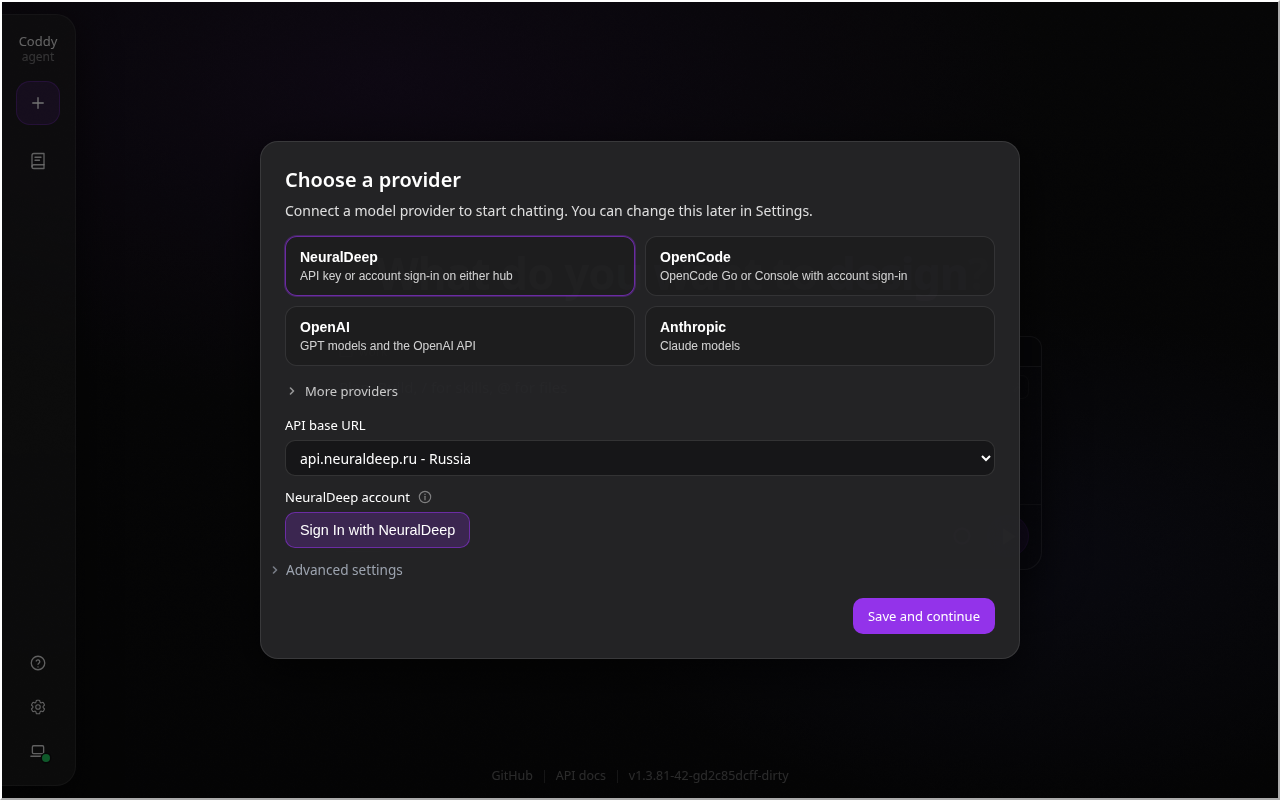
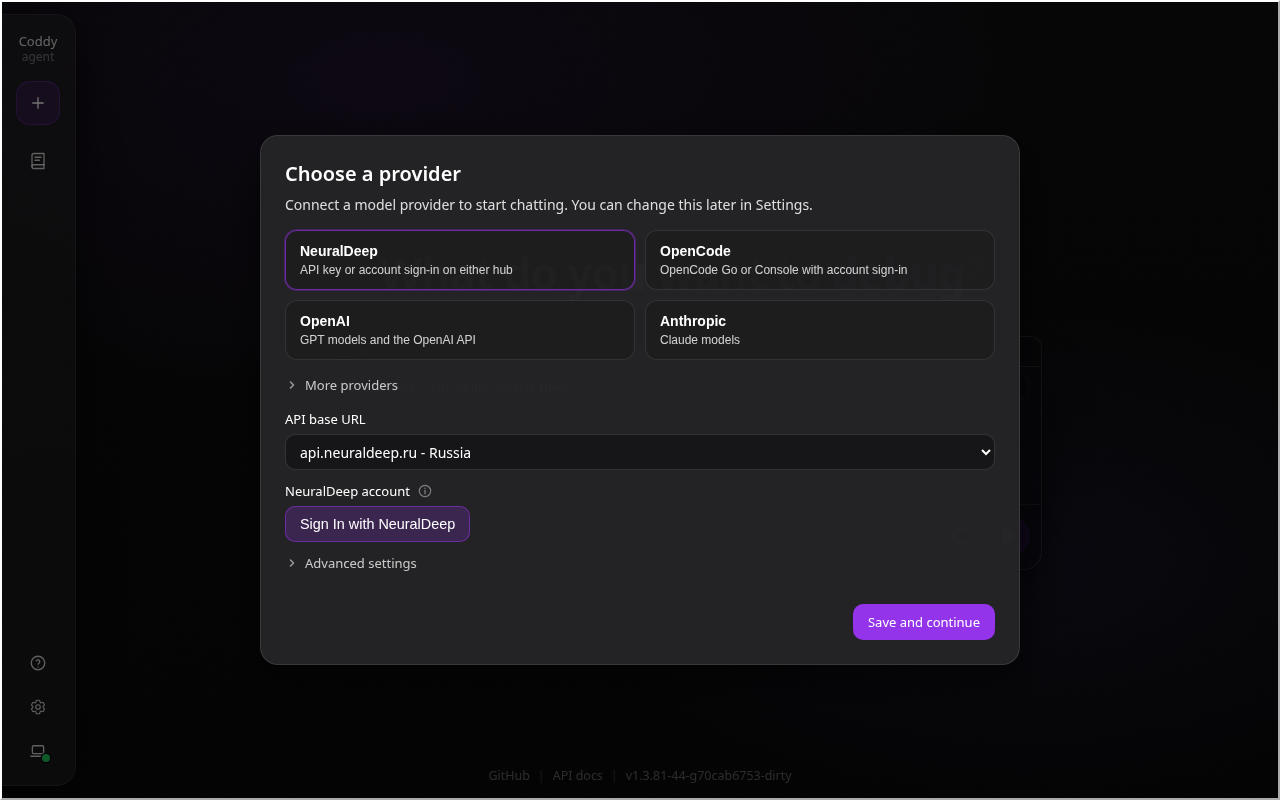
fix(onboarding): both folds of the picker are the same control
Advanced settings was a CollapsibleFieldset and More providers a plain row,
so the two disclosures of one dialog looked unrelated: one framed, legended
and indenting its contents a visible step past the fields above it, the other
a chevron and two words on the form's left edge.

They are now one rule. `.provider-picker-disclosure` draws both, so neither
can drift from the other, and what the advanced one opens is the form's own
column - same gap, same edge, no frame. Nothing of the settings screen's
fieldset is left in the partial, which the CSS contract asserts by name.

A fold now unmounts what it hides rather than hiding it. The values live in
the dialog's state, so folding loses nothing, and the test types a proxy,
folds, unfolds and reads it back.

Measured in a real browser rather than looked at: a check opens the advanced
fold and compares the two rows by computed style - font size and weight,
colour, opacity, border, background, padding, height, display, alignment,
gap - plus the chevron's width and the left edge of every card, row and
field against the panel. Twelve combinations, 320 to 1920 px in both
languages, no difference in any property and one left edge throughout.

diff --git a/external/ui/src/ui/onboarding/ProviderPickerDialog.tsx b/external/ui/src/ui/onboarding/ProviderPickerDialog.tsx
@@ -2,7 +2,6 @@ import { useCallback, useEffect, useMemo, useRef, useState } from "react";
 import { useT } from "../i18n/I18nProvider";
 import { errorMessage } from "../settings/apiError";
 import { Chevron } from "../components/Chevron";
-import { CollapsibleFieldset } from "../settings/SchemaForm";
 import { CodexAuthField } from "../settings/CodexAuthField";
 import { NeuralDeepAuthField } from "../settings/NeuralDeepAuthField";
 import { OpenCodeAuthField } from "../settings/OpenCodeAuthField";
@@ -61,6 +60,7 @@ export function ProviderPickerDialog(props: {
   const [proxy, setProxy] = useState("");
   const [showKey, setShowKey] = useState(false);
   const [showAllState, setShowAllState] = useState(false);
+  const [showAdvanced, setShowAdvanced] = useState(false);
   const [managedLogin, setManagedLogin] = useState(false);
   const [busy, setBusy] = useState(false);
   const [error, setError] = useState<string | null>(null);
@@ -357,7 +357,7 @@ export function ProviderPickerDialog(props: {
         {REST.length > 0 ? (
           <button
             type="button"
-            className="provider-picker-more"
+            className="provider-picker-disclosure"
             aria-expanded={showAll}
             onClick={() => setShowAllState((value) => !value)}
             data-testid="provider-more-toggle"
@@ -497,19 +497,26 @@ export function ProviderPickerDialog(props: {
             </label>
           ) : null}
 
-          {/* The proxy is the one setting of this form nobody needs on a
-              first run, so it folds away behind the same legend the provider
-              form of Settings folds it behind, and by the same component. */}
-          <div className="provider-picker-advanced">
-            <CollapsibleFieldset
-              legend={t("settings.providers.group.advanced")}
-              testid="provider-advanced"
+          {/* The same row as More providers, for the same reason: a fieldset
+              put a frame and a legend around two fields that read better as
+              a plain continuation of the form. What is typed here lives in
+              this dialog's state, so folding it away loses nothing. */}
+          <button
+            type="button"
+            className="provider-picker-disclosure"
+            aria-expanded={showAdvanced}
+            onClick={() => setShowAdvanced((value) => !value)}
+            data-testid="provider-advanced-toggle"
+          >
+            <Chevron open={showAdvanced} />
+            <span>{t("settings.providers.group.advanced")}</span>
+          </button>
+          {showAdvanced ? (
+            <div
+              className="provider-picker-advanced"
+              data-testid="provider-advanced"
             >
               {keyIsAdvanced ? keyField : null}
-              {/* A plain field, like every other row here. The switch that
-                  turns the system proxy off belongs to the provider form of
-                  Settings, where a row is tuned; a first run only ever needs
-                  to name a proxy or leave the field alone. */}
               <label className="provider-picker-field">
                 <span>{t("onboarding.proxy")}</span>
                 <input
@@ -525,8 +532,8 @@ export function ProviderPickerDialog(props: {
                   {t("onboarding.proxyHint")}
                 </span>
               </label>
-            </CollapsibleFieldset>
-          </div>
+            </div>
+          ) : null}
 
           {modelsFetched && modelsError ? (
             <span

diff --git a/external/ui/src/ui/onboarding/ProviderPickerDialog.test.tsx b/external/ui/src/ui/onboarding/ProviderPickerDialog.test.tsx
@@ -298,14 +298,17 @@ describe("ProviderPickerDialog", () => {
   it("keeps the key out of the way of a sign-in, and in reach under Advanced", async () => {
     renderPicker();
     // NeuralDeep signs in; its key is not a second thing to answer first.
-    const advanced = screen.getByTestId("provider-advanced");
+    fireEvent.click(screen.getByTestId("provider-advanced-toggle"));
     await waitFor(() =>
-      expect(advanced.contains(screen.getByTestId("provider-api-key"))).toBe(
-        true,
-      ),
+      expect(
+        screen
+          .getByTestId("provider-advanced")
+          .contains(screen.getByTestId("provider-api-key")),
+      ).toBe(true),
     );
     // OpenAI has no sign-in, so its key is the form's own first field.
     fireEvent.click(screen.getByTestId("provider-card-openai"));
+    // The row still holds the proxy for every provider; what moves is the key.
     await waitFor(() =>
       expect(
         screen
@@ -313,6 +316,7 @@ describe("ProviderPickerDialog", () => {
           .contains(screen.getByTestId("provider-api-key")),
       ).toBe(false),
     );
+    expect(screen.getByTestId("provider-proxy")).toBeTruthy();
     // Codex carries no key at all.
     showAllProviders();
     fireEvent.click(screen.getByTestId("provider-card-codex"));
@@ -321,20 +325,30 @@ describe("ProviderPickerDialog", () => {
     );
   });
 
-  it("folds the proxy away behind Advanced settings", async () => {
+  it("folds the proxy away behind an Advanced settings row", async () => {
     renderPicker();
     const toggle = await screen.findByTestId("provider-advanced-toggle");
     expect(toggle.textContent).toBe("Advanced settings");
     expect(toggle.getAttribute("aria-expanded")).toBe("false");
-    const body = screen
-      .getByTestId("provider-advanced")
-      .querySelector(".settings-form-group-body")!;
-    expect(body.hasAttribute("hidden")).toBe(true);
-    // The field is mounted while folded, so what it holds survives the fold.
-    expect(body.querySelector('[data-testid="provider-proxy"]')).not.toBeNull();
+    // The same row as More providers, not a fieldset of its own.
+    expect(toggle.className).toBe(
+      screen.getByTestId("provider-more-toggle").className,
+    );
+    expect(toggle.closest("fieldset")).toBeNull();
+    expect(screen.queryByTestId("provider-proxy")).toBeNull();
+
     fireEvent.click(toggle);
     expect(toggle.getAttribute("aria-expanded")).toBe("true");
-    expect(body.hasAttribute("hidden")).toBe(false);
+    const proxy = screen.getByTestId("provider-proxy") as HTMLInputElement;
+    fireEvent.change(proxy, { target: { value: "http://127.0.0.1:7890" } });
+    // Folding it away and back keeps what was typed: the value lives in the
+    // dialog, not in the markup.
+    fireEvent.click(toggle);
+    expect(screen.queryByTestId("provider-proxy")).toBeNull();
+    fireEvent.click(toggle);
+    expect(
+      (screen.getByTestId("provider-proxy") as HTMLInputElement).value,
+    ).toBe("http://127.0.0.1:7890");
   });
 
   it("asks for no model and starts the row on what the provider serves", async () => {

diff --git a/external/ui/src/styles/_onboarding.scss b/external/ui/src/styles/_onboarding.scss
@@ -424,21 +424,11 @@
   }
 }
 
-// The folded Advanced settings of the picker is the one the provider form of
-// Settings folds its proxy behind, so it keeps that component's look; only
-// the room around it belongs to this form.
-.provider-picker-advanced .settings-fieldset--collapsible {
-  margin: 0;
-}
-
-.provider-picker-advanced .settings-form-group-body {
-  padding-top: 10px;
-}
-
-// The providers that do not lead are shown by one quiet row under the grid:
-// the app's chevron, the words, no frame and no legend. It starts where the
-// cards start, so the column reads straight down.
-.provider-picker-more {
+// Both disclosures of this dialog - the rest of the catalog, the advanced
+// settings - are one quiet row: the app's chevron, the words, no frame and no
+// legend. They start where the cards and the fields start, so the column
+// reads straight down and the two look alike, because they are the same rule.
+.provider-picker-disclosure {
   display: flex;
   align-items: center;
   gap: 6px;
@@ -453,18 +443,15 @@
   cursor: pointer;
 }
 
-.provider-picker-more:hover,
-.provider-picker-more:focus-visible {
+.provider-picker-disclosure:hover,
+.provider-picker-disclosure:focus-visible {
   opacity: 1;
 }
 
-// Opened, the Advanced fold keeps the form's one left edge: the settings
-// screen indents a fieldset's body, which here put the key and the proxy a
-// visible step further in than the fields above them.
-.provider-picker-advanced .settings-fieldset--collapsible {
-  padding-inline: 0;
-}
-
-.provider-picker-advanced .settings-form-group-body {
-  padding-inline: 0;
+// What the advanced row opens is a continuation of the form: the same column
+// and the same gap between rows, no frame and no indent of its own.
+.provider-picker-advanced {
+  display: flex;
+  flex-direction: column;
+  gap: 12px;
 }

diff --git a/external/ui/src/ui/onboarding/onboardingCss.test.ts b/external/ui/src/ui/onboarding/onboardingCss.test.ts
@@ -129,15 +129,21 @@ describe("the provider picker's styles", () => {
     );
   });
 
-  // The providers that do not lead are shown by a row, not by a fieldset: a
-  // frame and a legend around a grid of cards boxed them in for nothing.
-  it("shows the rest of the catalog from a plain row", () => {
-    const body = rule(".provider-picker-more");
+  // Both disclosures - the rest of the catalog, the advanced settings - are
+  // the same row, from the same rule, so neither can drift from the other.
+  // A fieldset framed and indented what reads as a plain part of the form.
+  it("draws both disclosures from one rule", () => {
+    const body = rule(".provider-picker-disclosure");
     expect(body).toContain("border: none");
     expect(body).toContain("background: none");
     expect(body).toContain("padding: 0");
-    expect(stylesPartial("onboarding")).not.toContain(
-      ".provider-picker-more .settings-fieldset--collapsible",
-    );
+    const css = stylesPartial("onboarding");
+    // Nothing of the settings screen's fieldset is left in this partial.
+    expect(css).not.toContain("settings-fieldset");
+    expect(css).not.toContain("settings-form-group");
+    // What the advanced row opens is the form's own column, not a frame.
+    const opened = rule(".provider-picker-advanced");
+    expect(opened).toContain("flex-direction: column");
+    expect(opened).toContain("gap: 12px");
   });
 });

diff --git a/docs/ru/surfaces/web-ui.md b/docs/ru/surfaces/web-ui.md
@@ -57,7 +57,7 @@ https://github.com/user-attachments/assets/604d01bb-b730-4ca5-9955-a7a593891054
 
 - **Когда он открывается.** Один раз при загрузке страницы вызывается **`GET /coddy/onboarding/status`**. Мастер открывается, если файла config.yaml нет, не настроены провайдеры или модели, нет модели по умолчанию или у её провайдера нет пригодного источника учётных данных. По умолчанию используется **`agent.model`**, а если он пуст - первая по алфавиту запись **`models[]`**. Провайдер без ключа, которого агент не использует, только попадает в информационный список `missing_api_keys` и не открывает мастер снова. Локальный OpenAI-совместимый endpoint с собственным **`api_base`** может быть готов без ключа. Проверка статуса не выполняет **`api_key_command`** и не обращается к провайдерам.
 - **Пресеты провайдеров.** NeuralDeep, OpenCode, OpenAI, Anthropic, Codex, Devin, OpenAI-compatible и ACP agent, именно в таком порядке, и карточка, на которой мастер открывается, NeuralDeep, стоит первой. Первые четыре видны сразу, остальные появляются по нажатию на строку **Ещё провайдеры** под сеткой, чтобы каталог не занимал весь мастер прежде, чем прочитана первая строка формы; выбранная среди них карточка остаётся на виду и дальше. Какие четыре идут первыми, задаёт поле каталога `featured`, и оно сверяется между двумя языками тем же тестом на Go, что и прочие поля пресета. Карточки идут по две в ряд на любой ширине, включая телефон. Одна карточка покрывает любой OpenAI-совместимый эндпоинт, в том числе локальные Ollama и LM Studio, а карточка ACP принимает команду агента, который работает на этой машине, и записывает `providers[].acp.command` вообще без учётных данных. Список провайдеров в консоли показывает тот же набор в том же порядке и открывается на той же карточке ([Консоль](console.md#список-провайдеров)); оба интерфейса берут его из одного списка - `internal/providerpreset` и его двойника на TypeScript `onboarding/providerConfig.ts`, которые сверяет между собой тест на Go. В каждом пресете заданы имя и тип провайдера, рекомендуемая модель и, где нужно, endpoint и заглушка ключа из переменной среды. OpenCode предлагает шлюзы Go и Console и существующий device login; Devin - вход через браузер по PKCE и поле для callback-адреса на случай, когда браузер не может достучаться до машины Coddy. В обоих можно указать явный ключ, который имеет приоритет над сохранённым входом. У пресета OpenAI-compatible нет своего endpoint, поэтому **Сохранить** остаётся недоступной, пока не введён базовый URL API; Ollama на своём локальном endpoint не требует ключа, и никакая заглушка ключа для неё не записывается.
-- **Расширенные настройки.** Прокси строки убран под **Расширенные настройки** - ту же надпись и тот же компонент, за которыми прячет свой прокси форма провайдера в настройках. При первом запуске их открывать не нужно; внутри обычное поле **URL прокси**, и то, что там указано, становится маршрутом всех запросов строки, включая вход в аккаунт. Пустое поле означает системный прокси. Переключателя **Игнорировать системный прокси** здесь нет: отключение системного прокси для одной строки - это тонкая настройка, а она живёт в **Настройки → Провайдеры LLM**.
+- **Расширенные настройки.** Прокси строки убран под **Расширенные настройки** - такую же тихую строку, как **Ещё провайдеры** выше: шеврон и два слова, а открывается она в ту же колонку формы, без собственной рамки. При первом запуске их открывать не нужно; внутри обычное поле **URL прокси**, и то, что там указано, становится маршрутом всех запросов строки, включая вход в аккаунт. Пустое поле означает системный прокси. Переключателя **Игнорировать системный прокси** здесь нет: отключение системного прокси для одной строки - это тонкая настройка, а она живёт в **Настройки → Провайдеры LLM**.
 - **Модели и проверка соединения.** Мастер не спрашивает модель. Он читает `POST /coddy/providers/models` с текущей строкой формы - несохранённый провайдер и вход, который существует только на сервере, перечисляют модели так же, - а строка начинает работу на рекомендованной модели пресета, если провайдер её отдаёт; на первой модели из его списка, если не отдаёт; и на рекомендованной, если провайдер не перечислил ничего. Вход под управлением Coddy запрашивает список сразу после подключения, а **Сохранить и продолжить** - единственная кнопка мастера - само запрашивает его один раз, если до этого список никто не получал, чтобы эндпоинт, который указал оператор, не был записан с моделью, которую он никогда не отдавал. Этот запрос и есть проверка соединения, которую раньше приходилось запускать кнопкой. У модели из списка в запись модели переносятся окно контекста, `max_tokens` из каталога и поддержка изображений. Модель меняют потом в поле ввода или в **Настройки → Провайдеры LLM**; провайдер, до которого не удалось достучаться, ошибкой здесь не считается, и строка всё равно записывается.
 - **Один вход за раз.** У провайдера со входом в аккаунт мастер показывает только этот вход: поле **Ключ API** уезжает в **Расширенные настройки** рядом с прокси - под рукой у того, у кого ключ уже есть, и не на виду у того, у кого его нет. У провайдера без входа в аккаунт (OpenAI, Anthropic, любой OpenAI-совместимый эндпоинт) ключ остаётся собственным полем формы; у Codex ключа нет вовсе, а ACP-агент не несёт ни того, ни другого. Явный ключ по-прежнему имеет приоритет над сохранённым входом везде, где есть и то и другое.
 - **Выход.** Кнопок "Пропустить пока" и "Проверить соединение" в мастере нет, единственное действие - **Сохранить и продолжить**. Клик вне окна закрывает его, а тур и **Настройки → Оформление → Пройти онбординг снова** работают как прежде.
@@ -2559,4 +2559,4 @@ Playwright ставится так же, как для проверки шевр
 
 Чтобы прогнать Playwright MCP против живого шлюза, соберите **`make build TAGS="http ui memory"`**, затем запустите **`./build/coddy serve`** с одноразовым **`--home`**, чтобы конфигурация могла включить память; откройте **`http://127.0.0.1:<port>/`**, перейдите в сессию, отправьте промпт, откройте панель задач и проверьте метку **память** в строке запуска.
 
-<!-- docsgen:source sha256=003b817a459de96e -->
+<!-- docsgen:source sha256=1c592167e648c226 -->

diff --git a/DESIGN.md b/DESIGN.md
@@ -74,8 +74,8 @@ The styles are SCSS. **`external/ui/src/styles.scss`** is the entry Vite compile
 
 ![The provider picker, NeuralDeep first](docs/assets/web-ui/onboarding-provider-dark-1280.png)
 
-- **Provider picker.** `onboarding/ProviderPickerDialog.tsx` is a modal panel at `z-index: 120`, at most 760px wide and 88vh tall, over `--coddy-overlay-scrim-bg`. Its preset cards form a two-column grid **at every width, the phone tier included** - one column there turned eight providers into a scroll of its own, so the description shrinks instead of the column. Only the presets the catalog marks `featured` are on screen (NeuralDeep, OpenCode, OpenAI, Anthropic); the rest (Codex, Devin, OpenAI-compatible, ACP agent) are drawn only once one quiet row under the grid is pressed - the app's `Chevron` and the words **More providers** / **Fewer providers**, no frame and no legend, because a fieldset boxed a grid that needs neither - and a card selected among them keeps them on screen whatever the row says. The order is `PROVIDER_PRESETS`, the dialog opens on the first of them, and the console's picker reads the same order and the same `featured` from `internal/providerpreset`, which a Go test holds to this list. The panel uses the opaque `--coddy-tip-bg` rather than transparent glass so the hero and composer cannot bleed through.
-- **One credential at a time.** The form shows one way in: a preset with an account sign-in (`neuraldeep`, `opencode`, `devin`) renders that sign-in and moves its **API key** into the **Advanced settings** fold beside the proxy, the same `CollapsibleFieldset` the provider form of Settings uses, whose body keeps this form's one left edge rather than the settings screen's indent; the proxy there is a plain **Proxy URL** field of this form, not `ProxySettingField` - the **Ignore system proxy** switch belongs to Settings, where a row is tuned, and a first run only ever names a proxy or leaves the field alone; a preset without one keeps the key as its first field, `codex` has none, and an ACP agent carries neither. There is **no model field, no Test connection and no Skip button**: **Save and continue** is the one action, `POST /coddy/providers/models` still supplies the catalog (a managed sign-in on connect, **Save** once when nothing has fetched one, which is the connection check the button used to be), the row starts on `startingModelId` - the preset's recommended model where the provider serves it, the first listed where it does not - and the backdrop is the way out. Saving merges the selected provider and model into the current document instead of replacing the other rows. Both dialogs are `React.lazy` chunks loaded only when shown, so first-run code does not inflate `app.js`.
+- **Provider picker.** `onboarding/ProviderPickerDialog.tsx` is a modal panel at `z-index: 120`, at most 760px wide and 88vh tall, over `--coddy-overlay-scrim-bg`. Its preset cards form a two-column grid **at every width, the phone tier included** - one column there turned eight providers into a scroll of its own, so the description shrinks instead of the column. Only the presets the catalog marks `featured` are on screen (NeuralDeep, OpenCode, OpenAI, Anthropic); the rest (Codex, Devin, OpenAI-compatible, ACP agent) are drawn only once one quiet row under the grid is pressed, and a card selected among them keeps them on screen whatever the row says. **Both disclosures of the dialog are one control from one rule** (`.provider-picker-disclosure`): the app's `Chevron` and the words, no frame and no legend, starting on the same left edge as the cards and the fields. A `CollapsibleFieldset` framed and indented what reads as a plain part of the form, and the two folds looked unrelated to each other. The order is `PROVIDER_PRESETS`, the dialog opens on the first of them, and the console's picker reads the same order and the same `featured` from `internal/providerpreset`, which a Go test holds to this list. The panel uses the opaque `--coddy-tip-bg` rather than transparent glass so the hero and composer cannot bleed through.
+- **One credential at a time.** The form shows one way in: a preset with an account sign-in (`neuraldeep`, `opencode`, `devin`) renders that sign-in and moves its **API key** into the **Advanced settings** fold beside the proxy - the second disclosure, the same row as **More providers**, opening onto the form's own column; the proxy there is a plain **Proxy URL** field of this form, not `ProxySettingField` - the **Ignore system proxy** switch belongs to Settings, where a row is tuned, and a first run only ever names a proxy or leaves the field alone. What a fold hides is unmounted, and what was typed lives in the dialog's state, so folding loses nothing; a preset without one keeps the key as its first field, `codex` has none, and an ACP agent carries neither. There is **no model field, no Test connection and no Skip button**: **Save and continue** is the one action, `POST /coddy/providers/models` still supplies the catalog (a managed sign-in on connect, **Save** once when nothing has fetched one, which is the connection check the button used to be), the row starts on `startingModelId` - the preset's recommended model where the provider serves it, the first listed where it does not - and the backdrop is the way out. Saving merges the selected provider and model into the current document instead of replacing the other rows. Both dialogs are `React.lazy` chunks loaded only when shown, so first-run code does not inflate `app.js`.
 - **Tour.** `GuidedTour.tsx` runs after Save or a dismissal only while `coddy.tourSeen` is absent from localStorage. A spotlight follows the live anchor through resize and scroll, with a 320px coach mark at `z-index: 130`, step counter, Back, Next, Skip and Escape. Optional steps whose anchors are absent are filtered out. Settings → Appearance carries **Restart onboarding** (`settings-restart-onboarding`), which clears the flag and reopens the picker. Styles live in `styles/_onboarding.scss`.
 
 ![The first tour step over Settings](docs/assets/web-ui/onboarding-tour-dark-1280.png)

diff --git a/docs/surfaces/web-ui.md b/docs/surfaces/web-ui.md
@@ -57,7 +57,7 @@ https://github.com/user-attachments/assets/604d01bb-b730-4ca5-9955-a7a593891054
 
 - **When it opens.** `GET /coddy/onboarding/status` is read once per page load. The picker opens when config.yaml is absent, no providers or models are configured, no effective default model exists, or that model's provider has no usable credential source. The default is `agent.model`, or the alphabetically first `models[]` row when `agent.model` is empty. A keyless provider the agent does not use only appears in the informational `missing_api_keys` list and does not reopen the picker. A local OpenAI-compatible endpoint with its own `api_base` can be ready without a key. The status check never runs `api_key_command` or calls a provider.
 - **Provider presets.** NeuralDeep, OpenCode, OpenAI, Anthropic, Codex, Devin, OpenAI-compatible and ACP agent, in that order, with the card the dialog opens on, NeuralDeep, first. The first four are on screen; the rest appear only when the **More providers** row under the grid is pressed, so the catalog does not fill the dialog before a word of the form is read, and a card picked among them stays on screen afterwards. Which four lead is the catalog's own `featured`, held across the two languages by the same Go test as the rest of a preset. Two cards to a row at every width, a phone included. One card covers every OpenAI-compatible endpoint, a local Ollama or LM Studio among them, and the ACP card takes the command of an agent this machine runs, writing `providers[].acp.command` and no credential at all. The console's picker offers the same catalog in the same order and opens on the same card ([Console](console.md#the-provider-picker)); both read it from the one list, `internal/providerpreset` and its TypeScript twin `onboarding/providerConfig.ts`, which a Go test holds to each other. Each preset carries a provider name, type, recommended model and, where relevant, an endpoint and environment-variable key placeholder. OpenCode offers the Go and Console gateways plus the existing device login; Devin offers browser PKCE sign-in and a callback-address field for a browser that cannot reach the Coddy machine. Both also accept an explicit key, which wins over the stored login. The OpenAI-compatible preset has no endpoint of its own, so **Save** stays disabled until its API base URL is filled in; Ollama needs no key on its local endpoint, and no placeholder key is written for it.
-- **Advanced settings.** The proxy of the row folds away behind **Advanced settings**, the same legend and the same component the provider form of Settings folds its own proxy behind. A first run never has to open it; opened, it holds a plain **Proxy URL** field, and what is typed there is the route of every request the row makes, the sign-in included. An empty field follows the system proxy. The **Ignore system proxy** switch is not here: turning the system proxy off for one row is tuning, and tuning lives in **Settings → LLM providers**.
+- **Advanced settings.** The proxy of the row folds away behind **Advanced settings**, the same quiet row as **More providers** above it - a chevron and two words, opening onto the form's own column rather than a frame of its own. A first run never has to open it; opened, it holds a plain **Proxy URL** field, and what is typed there is the route of every request the row makes, the sign-in included. An empty field follows the system proxy. The **Ignore system proxy** switch is not here: turning the system proxy off for one row is tuning, and tuning lives in **Settings → LLM providers**.
 - **Models and connection checks.** The dialog asks for no model. It reads `POST /coddy/providers/models` with the row as it stands in the form - an unsaved provider and a login that only exists on the server list their models the same way - and the row starts on the preset's own recommended model where the provider serves it, on the first model it does list where it does not, and on the recommended one when the provider listed nothing. A managed sign-in fetches as soon as it connects, and **Save and continue** - the dialog's one action - fetches once itself when nothing has, so an endpoint the operator brought is not written against a model it never served. That fetch is the connection check a **Test connection** button used to ask for by hand. The listed model carries its context window, catalog `max_tokens` and image support into the model entry. The model is changed afterwards in the composer or in **Settings → LLM providers**; a provider that cannot be reached is not an error here, and the row is still written.
 - **One way in at a time.** A provider that signs in to an account shows that sign-in and nothing else to answer: its **API key** moves into **Advanced settings** beside the proxy, in reach for whoever already has a key, out of the way of whoever does not. A provider with no sign-in (OpenAI, Anthropic, any OpenAI-compatible endpoint) keeps the key as the form's own field; Codex has no key at all, and an ACP agent carries neither. An explicit key still wins over a stored login wherever both exist.
 - **Leaving.** The dialog has no Skip button and no Test connection button; **Save and continue** is the one action. Clicking outside it closes it, and the tour and **Settings → Appearance → Restart onboarding** behave as before.

diff --git a/docs/assets/INDEX.md b/docs/assets/INDEX.md
@@ -498,8 +498,8 @@ Generated by `make docs`. "Used by" lists the files that reference the asset.
 | `message-edit-banner-dark-1280.png` | 271 KB | docs/ru/surfaces/web-ui.md, docs/surfaces/web-ui.md |
 | `message-edit-undo-dark-1280.png` | 254 KB | docs/ru/surfaces/web-ui.md, docs/surfaces/web-ui.md |
 | `notifications-setting-dark-1280.png` | 98 KB | docs/ru/surfaces/web-ui.md, docs/surfaces/web-ui.md |
-| `onboarding-provider-dark-1280.png` | 372 KB | DESIGN.md, docs/ru/surfaces/web-ui.md, docs/surfaces/web-ui.md |
-| `onboarding-provider-dark-390.png` | 130 KB | docs/ru/surfaces/web-ui.md, docs/surfaces/web-ui.md |
+| `onboarding-provider-dark-1280.png` | 367 KB | DESIGN.md, docs/ru/surfaces/web-ui.md, docs/surfaces/web-ui.md |
+| `onboarding-provider-dark-390.png` | 127 KB | docs/ru/surfaces/web-ui.md, docs/surfaces/web-ui.md |
 | `onboarding-restart-dark-1280.png` | 317 KB | docs/ru/surfaces/web-ui.md, docs/surfaces/web-ui.md |
 | `onboarding-tour-dark-1280.png` | 412 KB | DESIGN.md, docs/ru/surfaces/web-ui.md, docs/surfaces/web-ui.md |
 | `phone-task-count-dark-390.png` | 10 KB | docs/ru/surfaces/web-ui.md, docs/surfaces/web-ui.md |
